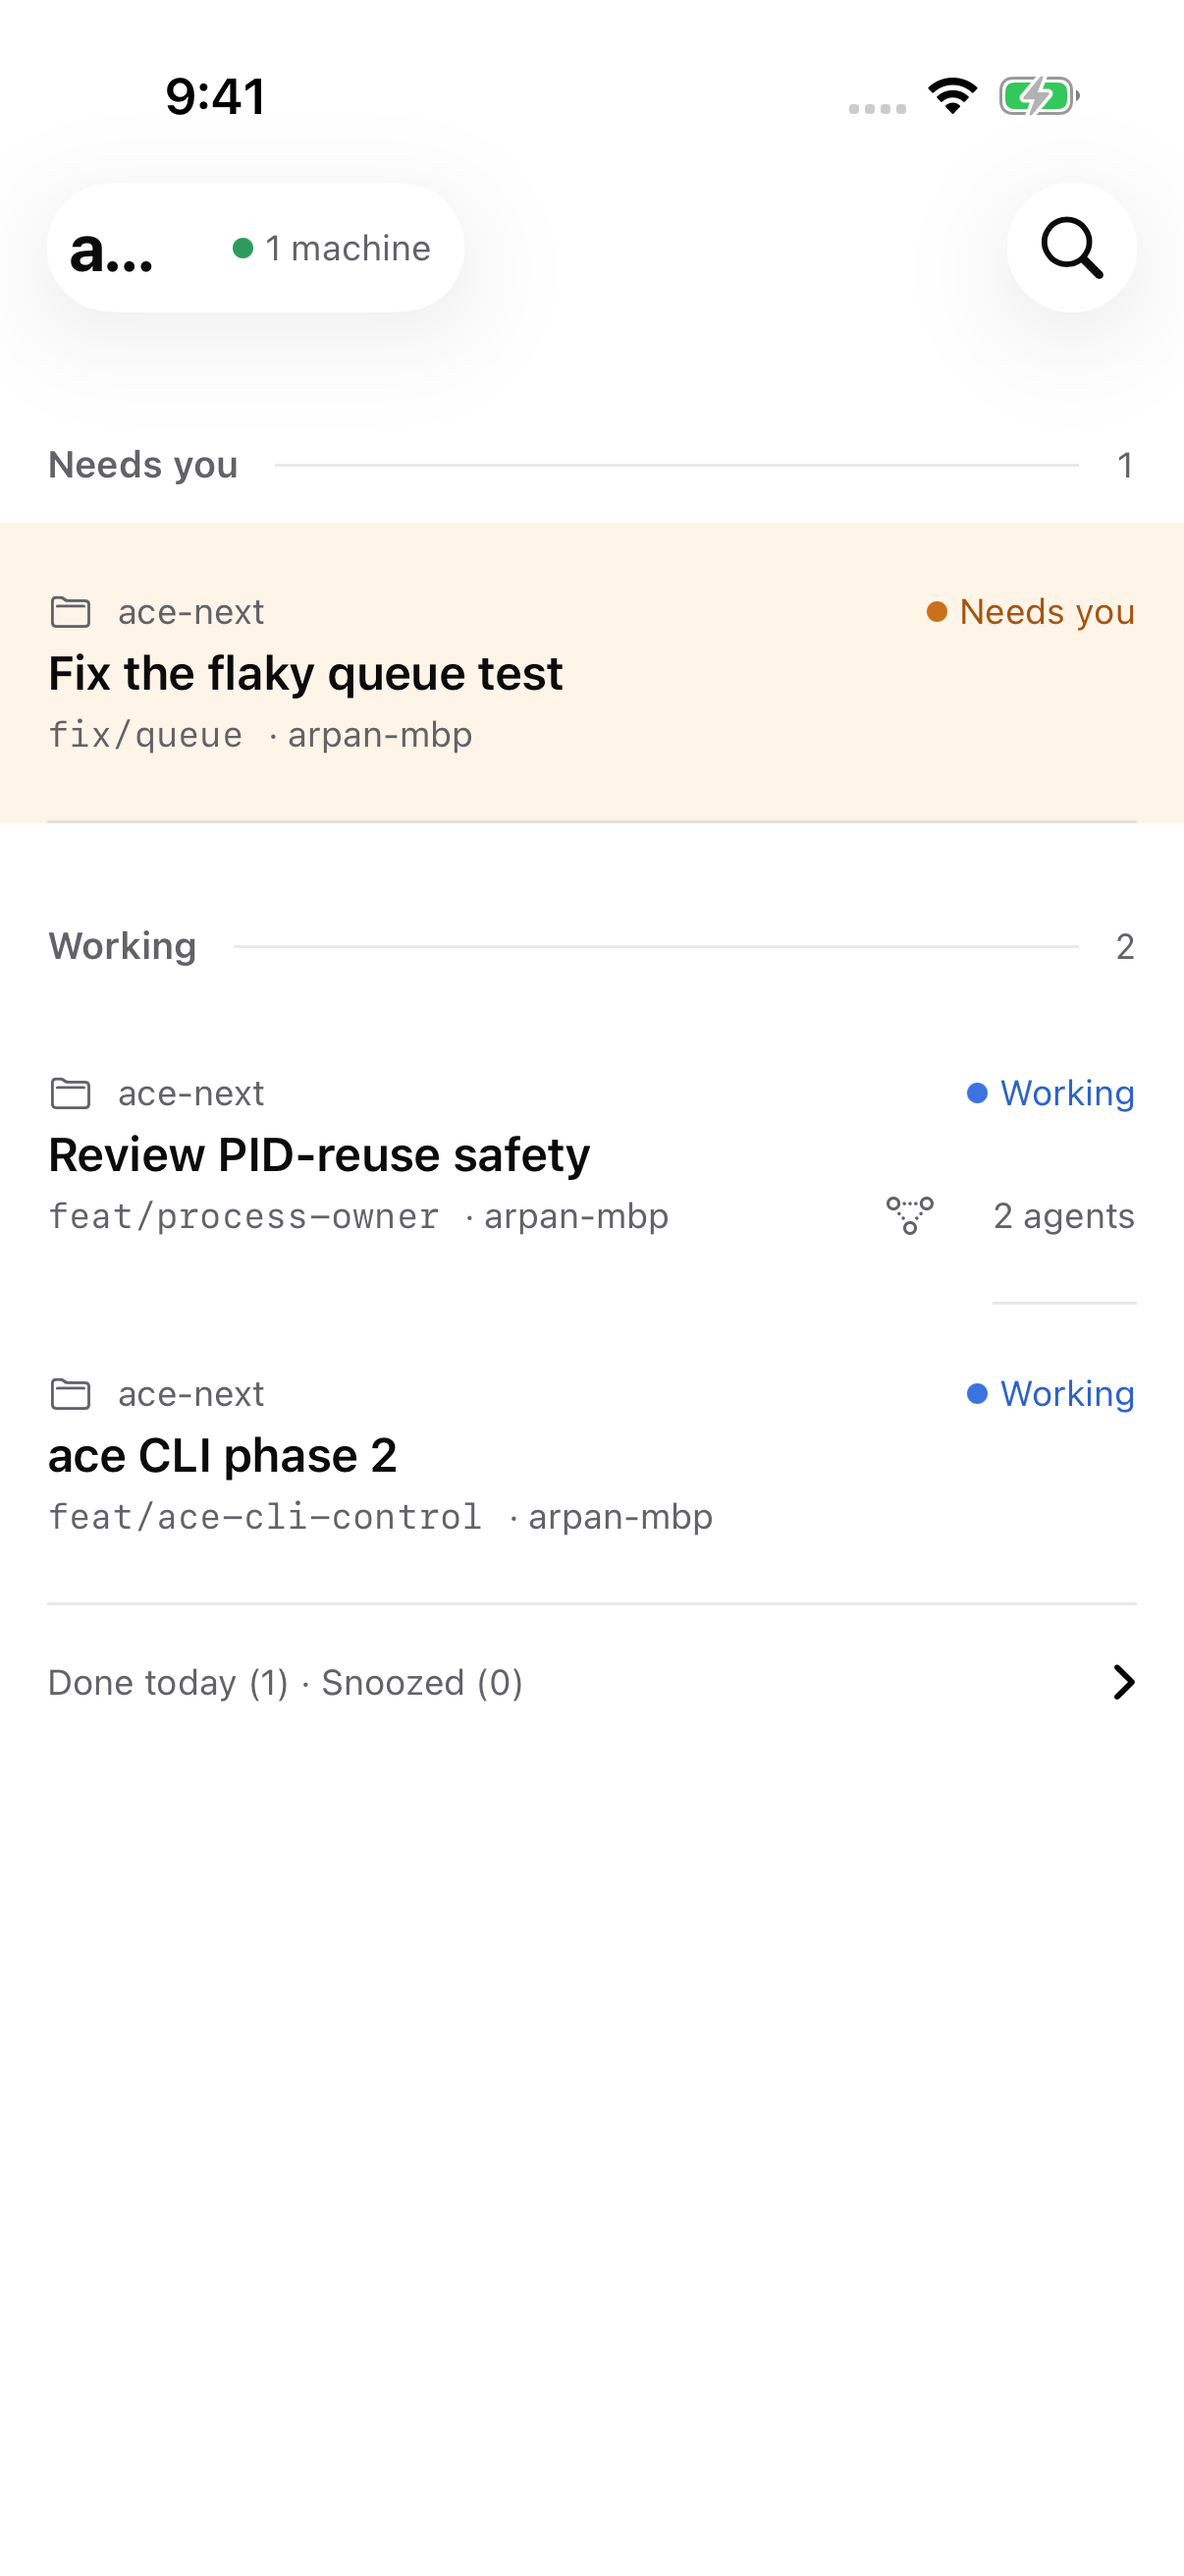
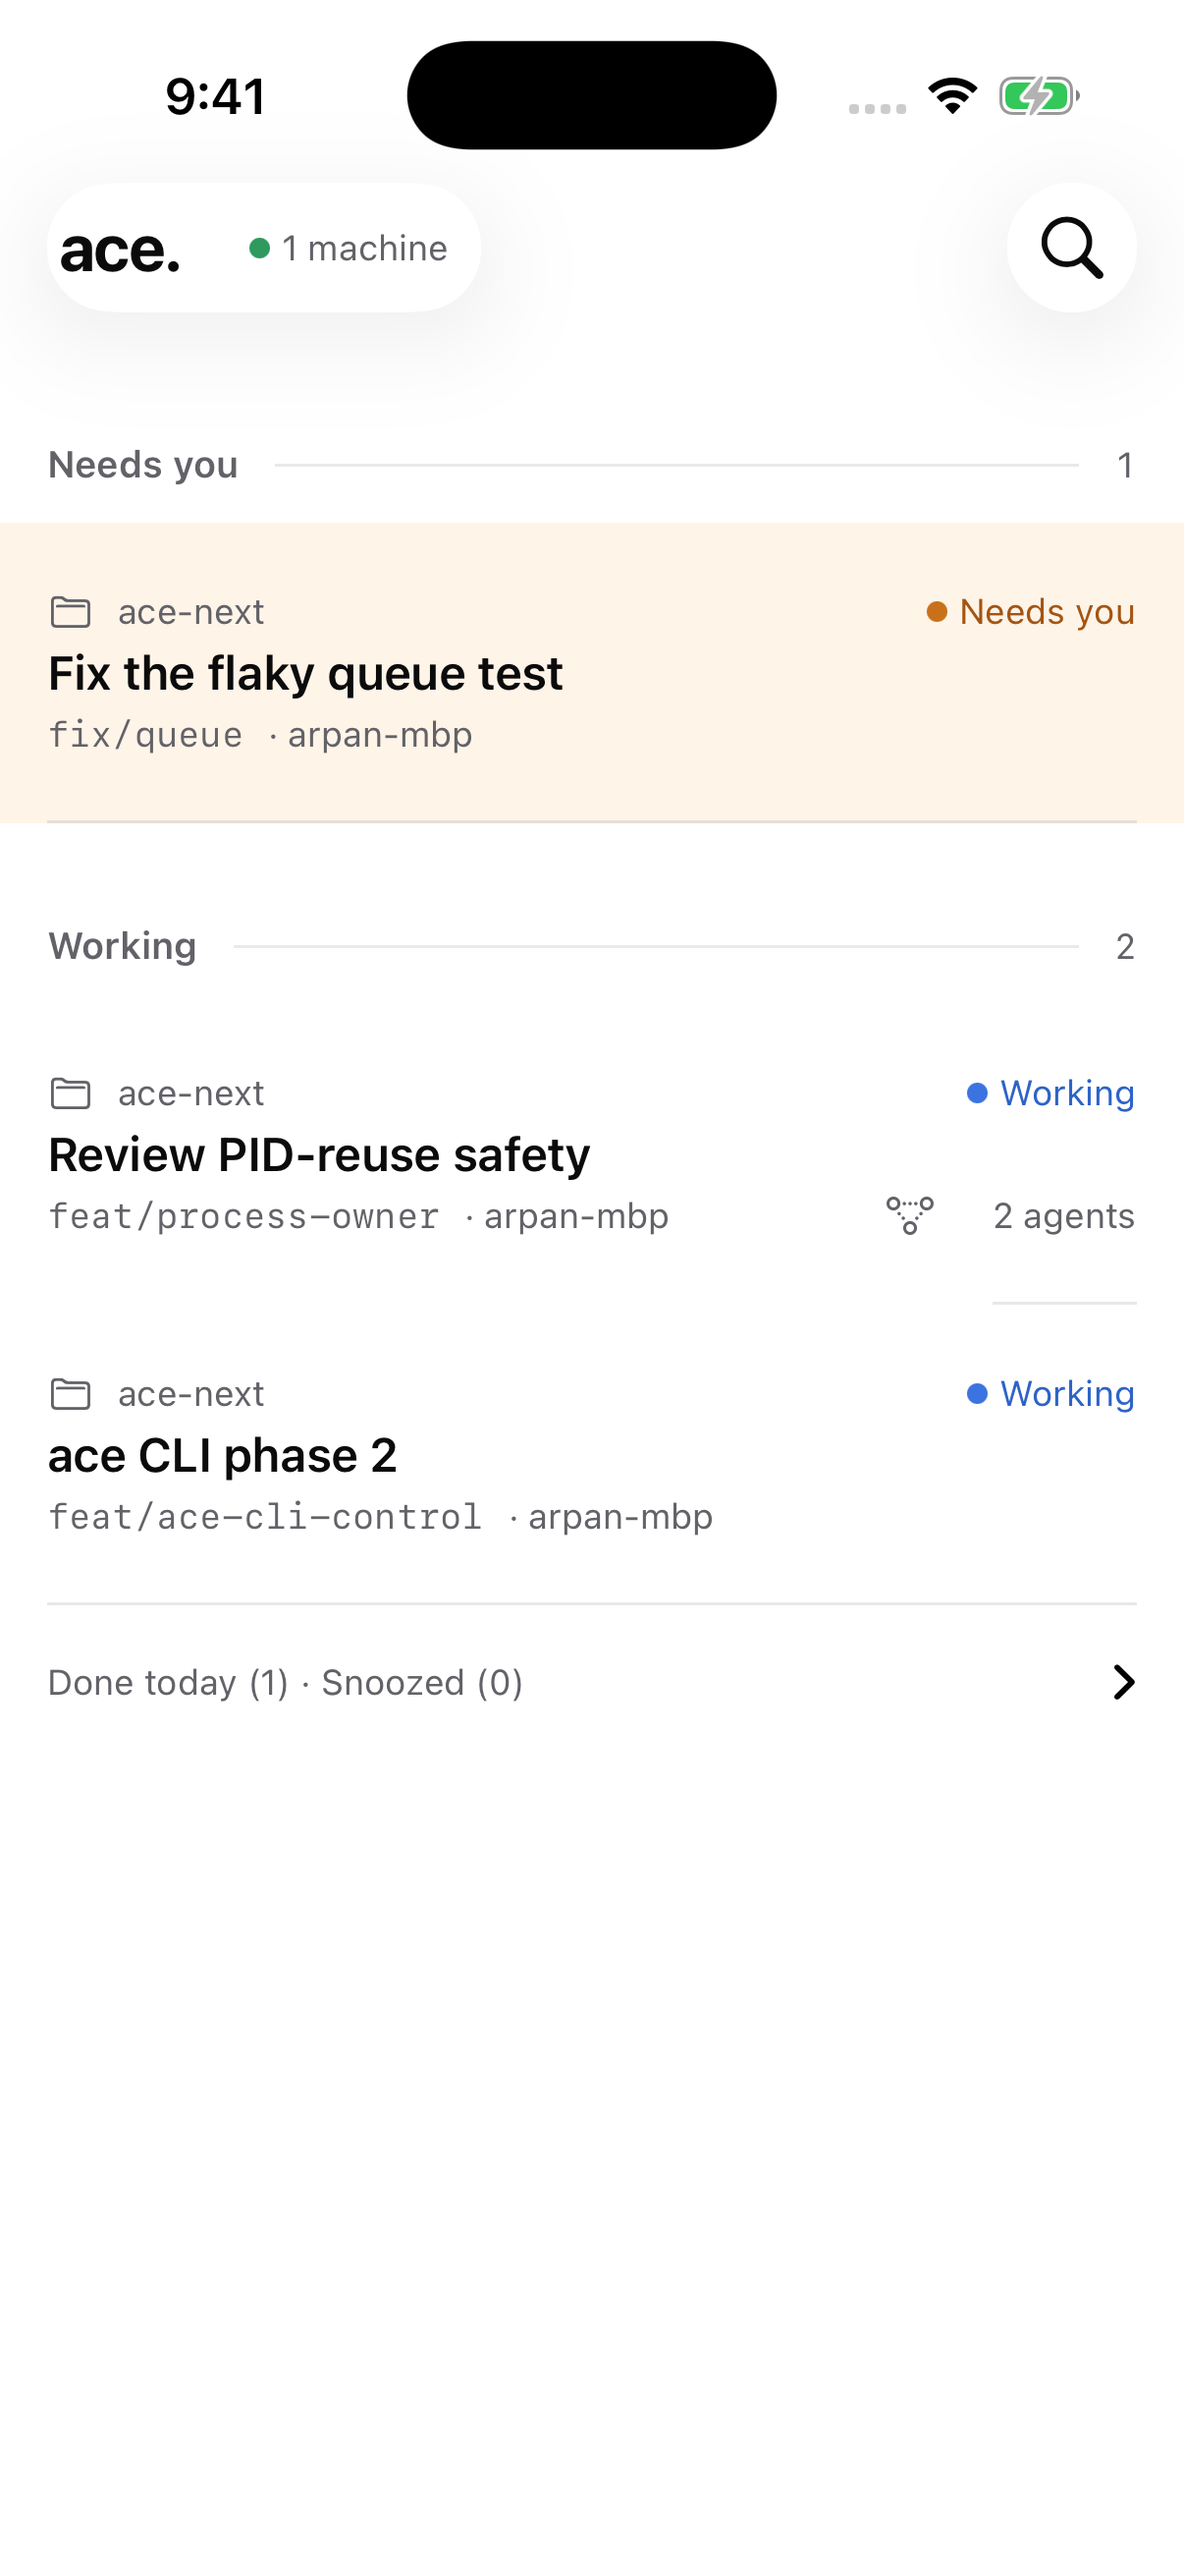
fix(ios): preserve the native wordmark width in the toolbar

Changed region(s): [[0.3375, 0.0, 0.675, 0.0618], [0.1841, 0.0927, 0.3682, 0.1236], [0.0614, 0.0927, 0.1534, 0.1236]]

diff --git a/apps/ios/Sources/Views/InboxView.swift b/apps/ios/Sources/Views/InboxView.swift
@@ -53,7 +53,7 @@ struct InboxView: View {
             .navigationBarTitleDisplayMode(.inline)
             .toolbar {
                 ToolbarItemGroup(placement: .topBarLeading) {
-                    Text("ace.").aceFont(AceTheme.Typography.wordmark, relativeTo: .title3).foregroundStyle(AceTheme.Colours.foreground)
+                    Text("ace.").aceFont(AceTheme.Typography.wordmark, relativeTo: .title3).fixedSize(horizontal: true, vertical: false).foregroundStyle(AceTheme.Colours.foreground)
                     Button { showingMachines = true } label: {
                         HStack(spacing: AceTheme.Spacing.xs) {
                             Circle().fill(model.connection == "ready" ? AceTheme.Status.done : AceTheme.Colours.decoration).frame(width: AceTheme.Dimensions.statusDot, height: AceTheme.Dimensions.statusDot)
